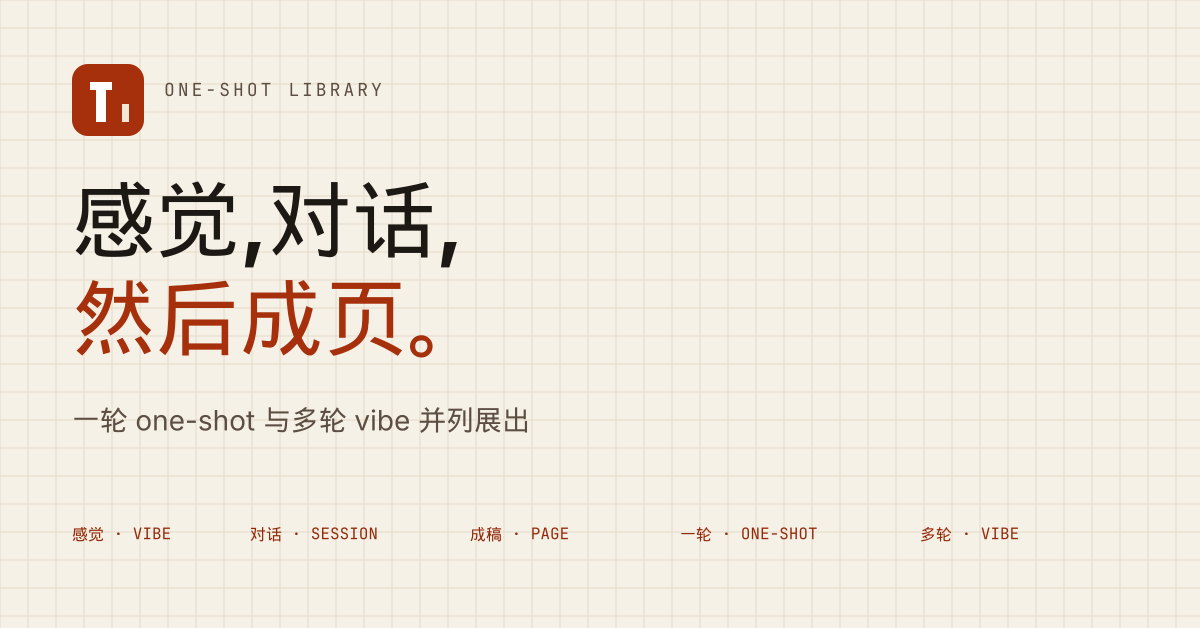
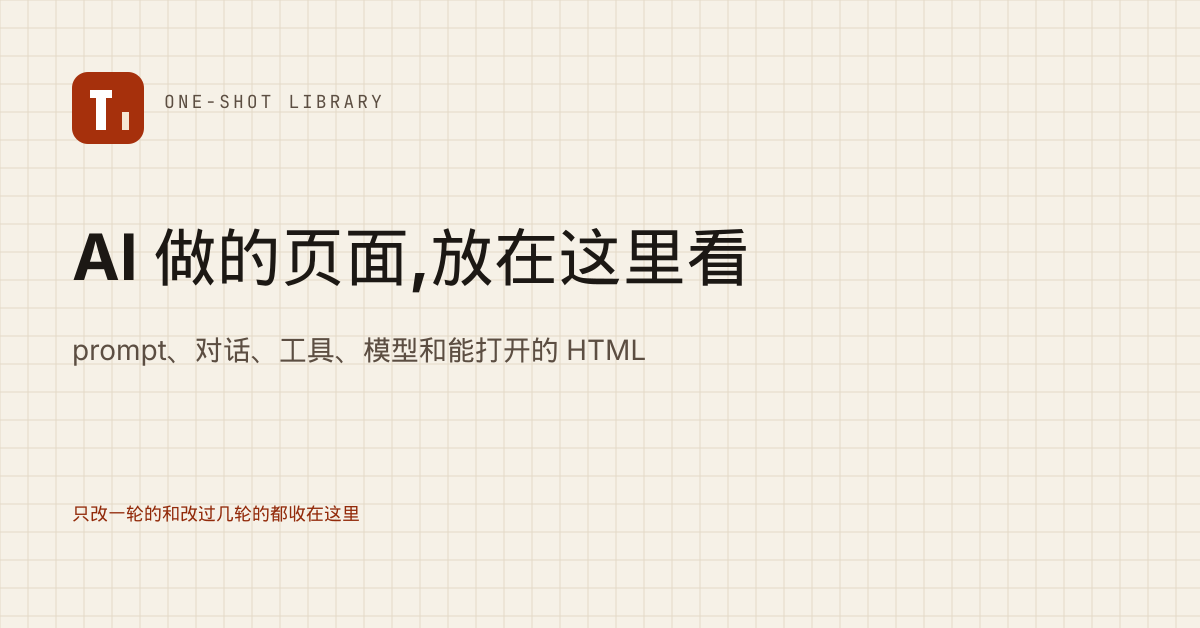
docs: 把站点文案和两件样例对话改得平一点
首页去掉口号和三张等宽说明卡。夜读页边、柜台纸条的对话改成办事时会说的话。原来 7 件的 prompt 没动。

diff --git a/src/pages/rss.xml.ts b/src/pages/rss.xml.ts
@@ -9,7 +9,7 @@ export const GET = async () => {
 
   return rss({
     title: `${SITE?.name} — 新收录`,
-    description: METADATA?.description ?? '一轮 one-shot 与多轮 vibe 的静态展厅',
+    description: METADATA?.description ?? '收录 AI 做的前端小页面',
     site: SITE?.site ?? '',
     items: shots.map((shot) => ({
       title: shot.title,

diff --git a/src/navigation.ts b/src/navigation.ts
@@ -44,6 +44,6 @@ export const footerData = {
     { ariaLabel: 'Github', icon: 'tabler:brand-github', href: 'https://github.com/DobyChao/one-shot-library' },
   ],
   footNote: `
-    One-Shot Library · 静态展厅 · 一轮与多轮都原样展出
+    One-Shot Library · 静态站点
   `,
 };

diff --git a/README.md b/README.md
@@ -1,8 +1,8 @@
 # One-Shot Library
 
-感觉,对话,然后成页。收藏 vibe-coding 里长出来的前端产物(落地页 / 仪表盘 / 小工具)。一轮 **one-shot** 与多轮 **vibe** 会话并列,每件作品都留下**对话、工具、模型和成稿预览**。仓库名仍是 One-Shot Library。
+收录 AI 做的前端小页面(落地页、仪表盘、小工具)。只改一轮的和改过几轮的都收,每件留着当时的对话、工具、模型和能打开的 HTML。仓库名仍是 One-Shot Library。
 
-基于 [AstroWind](https://github.com/onwidget/astrowind)(Astro 7 + Tailwind CSS v4)构建,产物以静态 HTML 分发,详情页内嵌 iframe 预览最终页面,并按时间线展开会话。
+基于 [AstroWind](https://github.com/onwidget/astrowind)(Astro 7 + Tailwind CSS v4)构建。页面以静态 HTML 放出来,详情页用 iframe 看最终结果,对话按时间线排。
 
 ## 常用命令
 
@@ -30,11 +30,11 @@ npm run new          # 脚手架:新建条目骨架并格式化
 title: 作品标题
 excerpt: 一句话介绍
 prompt: |
-  开场那条用户原文(原样粘贴)。一轮作品只填这项也会合成一条会话。
-mode: one-shot # one-shot 或 vibe。省略时,用户开口超过 1 次会当成 vibe
-vibe: 一句感觉 # 可选。卡片优先显示它
-outcome: 这次改到了哪里 # 可选
-turns: 1 # 用户开口次数。省略时按 session 里的 user 条数
+  用户第一条消息(原样粘贴)。只改一轮的只填这项,也会合成一条会话。
+mode: one-shot # one-shot 或 vibe。不填时,用户消息超过 1 次会当成 vibe
+vibe: 当时想要的效果 # 可选。卡片优先显示它
+outcome: 最后改成了什么 # 可选
+turns: 1 # 用户发了几次。不填时按 session 里的 user 条数
 harness: ZCode # 可选。驱动生成的工具(ZCode / Claude Code / Cursor / v0 …)
 model: GLM-5.3-Flash # 可选。使用的模型
 html: my-landing.html # public/artifacts/ 下的最终文件
@@ -43,7 +43,7 @@ tags: [landing-page, saas]
 featured: false
 # session: # 可选。多轮时按顺序写。html / image 挂在某一回合上
 #   - role: user
-#     text: 与 prompt 相同的开场原文
+#     text: 和 prompt 相同的第一条消息
 #     html: my-landing/step-1.html
 #   - role: agent
 #     text: 这一步交出来的东西
@@ -57,10 +57,10 @@ featured: false
 `session`(有序回合:`role` 为 `user` 或 `agent`,`text` 必填,`note` / `html` / `image` 可选)。
 `mode` / `harness` / `model` / `turns` 会成为卡片徽章并参与画廊筛选(也可按方式、工具、模型或 series 分组)。工具和模型请用规范写法(见 `src/data/taxonomy.ts` 或站内关于页),不知道就留空;
 `series` 相同的作品进入 `/shots/series/<name>` 并排对照;prompt 不同会各自保留原文;
-`prompt` 是开场用户原文。省略 `session` 时,站点用它合成一条用户回合,已有的一轮条目不用改文件;
-某一回合的 `html` 若与最终 `html` 相同,时间线只链到页底成稿,不再嵌一次;
+`prompt` 是用户的第一条消息。不填 `session` 时,站点用它合成一条用户回合,已有的一轮条目不用改文件;
+某一回合的 `html` 若与最终 `html` 相同,时间线只链到下面的预览,不再嵌一次;
 方式、轮数、日期、产物形式出现在详情页「生成信息」面板;`npm run audit` 的 Lighthouse 分数有则自动展示;
-markdown 正文可选,显示在详情页「备注」区。为演示时间线而写的样例请在备注里标明。
+markdown 正文可选,显示在详情页「备注」里。为了演示时间线而写的样例,请在备注里标明。
 
 ## 目录速览
 

diff --git a/src/data/shot/night-margin.md b/src/data/shot/night-margin.md
@@ -1,36 +1,36 @@
 ---
 publishDate: 2026-10-08T12:00:00Z
 title: 夜读页边
-excerpt: 从居中海报改成可以顺着读的一页。展陈样例,用来演示多轮时间线。
+excerpt: 样例。第一稿把一句话放在中间,第二稿改成能往下读的一页。
 prompt: |
-  做一页夜读。米白纸,一句短引文居中,像海报。句子用:灯还亮着的时候,只读一页。
+  做一页夜里看的。背景用米白。中间只放一句:灯还亮着的时候,只读一页。先做成海报,字居中。
 mode: vibe
-vibe: 灯下读一页,字要沉,边距要宽。
-outcome: 从居中海报改成左对齐的窄栏,页边留出批注。
+vibe: 夜里看的一页,不要海报。
+outcome: 第二稿把字靠左,右边留了一行小字。
 turns: 2
 html: night-margin/index.html
 image: '~/assets/images/shots/night-margin/index.png'
-imageAlt: 夜读页边成稿,左对齐窄栏与页边批注
+imageAlt: 夜读页边的最终页面,字靠左,右边有一行小字
 tags: [reading, page]
 featured: false
 session:
   - role: user
     text: |
-      做一页夜读。米白纸,一句短引文居中,像海报。句子用:灯还亮着的时候,只读一页。
-    note: 第一稿是居中海报。
+      做一页夜里看的。背景用米白。中间只放一句:灯还亮着的时候,只读一页。先做成海报,字居中。
+    note: 第一稿,字在中间。
     html: night-margin/step-1.html
     image: '~/assets/images/shots/night-margin/step-1.png'
   - role: agent
     text: |
-      先交一版居中的引文海报:大字、宽留白、纸色背景,没有正文。
+      做好了。一句大字居中,纸色底,没有正文。
   - role: user
     text: |
-      不要海报。改成可以顺着读的一页:标题靠左,正文窄栏,页边像笔记。仍用那句做开头。
-    note: 成稿在页底预览,这一步不再嵌一次。
+      太大了,看着像广告。标题靠左,正文窄一点,右边留空写一句批注。开头那句留着。
+    note: 第二稿就是下面的最终页面。
     html: night-margin/index.html
   - role: agent
     text: |
-      改成左对齐窄栏,墨蓝字,页边留出一行批注。
+      改好了。标题和正文靠左,右边有一行小字。
 ---
 
-这是为会话时间线准备的展陈样例。对话由馆方撰写,不是某次模型转录,因此没有填写 harness 和 model。两份页面都是为本条目新写的静态 HTML。
+样例,我们写的,用来把改过几轮的对话放进时间线。没有模型那边的原始记录,所以工具和模型空着。页面是单独加的两个 HTML。

diff --git a/src/data/shot/counter-slip.md b/src/data/shot/counter-slip.md
@@ -1,36 +1,36 @@
 ---
 publishDate: 2026-10-09T12:00:00Z
 title: 柜台纸条
-excerpt: 从一份要勾完的清单,改成可以划掉的三张纸条。展陈样例,用来演示多轮时间线。
+excerpt: 样例。第一稿是一张待办清单,第二稿改成三张能划掉的纸条。
 prompt: |
-  做一张今日柜台清单。浅绿色表格,三条待办,底部一个提交按钮。
+  做一张今天柜台用的清单。浅绿底,三条待办,底下放一个提交按钮。
 mode: vibe
-vibe: 柜台边的纸条要能划掉,不要再像一张表。
-outcome: 清单收成三张赭色纸条,划掉即可,不再提交。
+vibe: 不要表格,改成能划掉的纸条。
+outcome: 三张黄纸条,按钮每按一次划掉一条。
 turns: 2
 html: counter-slip/index.html
 image: '~/assets/images/shots/counter-slip/index.png'
-imageAlt: 柜台纸条成稿,三张赭色便条
+imageAlt: 柜台纸条的最终页面,三张黄色便条
 tags: [note, tool]
 featured: false
 session:
   - role: user
     text: |
-      做一张今日柜台清单。浅绿色表格,三条待办,底部一个提交按钮。
-    note: 第一稿还是一张清单。
+      做一张今天柜台用的清单。浅绿底,三条待办,底下放一个提交按钮。
+    note: 第一稿还是清单。
     html: counter-slip/step-1.html
     image: '~/assets/images/shots/counter-slip/step-1.png'
   - role: agent
     text: |
-      先交一张浅绿色清单:三条待办,勾选框,底部是提交。
+      做好了。三条都有勾选框,按钮写着提交清单。
   - role: user
     text: |
-      不要表格,也不要提交。改成三张可以划掉的纸条,颜色用柜台灯下的赭黄。
-    note: 成稿在页底预览,这一步不再嵌一次。
+      表格拿掉,提交也拿掉。换成三张纸条,颜色黄一点,要能一条条划掉。
+    note: 第二稿就是下面的最终页面。
     html: counter-slip/index.html
   - role: agent
     text: |
-      收成三张略微歪斜的纸条。底部一枚按钮,按一次划掉下一条。
+      改好了。三张纸条稍微歪着。底下的按钮按一下,划掉下一条。
 ---
 
-这是为会话时间线准备的展陈样例。对话由馆方撰写,不是某次模型转录,因此没有填写 harness 和 model。两份页面都是为本条目新写的静态 HTML。
+样例,我们写的,用来把改过几轮的对话放进时间线。没有模型那边的原始记录,所以工具和模型空着。页面是单独加的两个 HTML。

diff --git a/.github/PULL_REQUEST_TEMPLATE.md b/.github/PULL_REQUEST_TEMPLATE.md
@@ -1,11 +1,11 @@
 ## 新作品提交清单
 
 - [ ] 产物放在 `public/artifacts/`(单文件 `<slug>.html` 或独立子目录 `<slug>/index.html`)
-- [ ] 新增条目 `src/data/shot/<slug>.md`(可用 `npm run new -- <slug> "标题"` 生成骨架),frontmatter 含 `title` / `prompt`(开场原文)/ `mode`(`one-shot` 或 `vibe`)/ `turns` / `html` / `tags`;多轮补上有序 `session`
+- [ ] 新增条目 `src/data/shot/<slug>.md`(可用 `npm run new -- <slug> "标题"` 生成骨架),frontmatter 含 `title` / `prompt`(第一条原文)/ `mode`(`one-shot` 或 `vibe`)/ `turns` / `html` / `tags`;改过几轮的补上有序 `session`
 - [ ] 写了 `harness` / `model` 时使用规范写法(见关于页或 `src/data/taxonomy.ts`);不知道可以留空
 - [ ] 已跑 `npx prettier --write src/data/shot/<slug>.md`(CI 有 prettier --check)
 - [ ] 本地 `npm run dev` 自测过画廊列表与详情页
 - [ ] (可选)已跑 `npm run screenshots` 生成封面;没有的话维护者会代补
-- [ ] 产物为本人所有或已获授权收录;prompt 与 session 是真实对话,或已在备注里标明是展陈样例
+- [ ] 产物为本人所有或已获授权收录;prompt 与 session 是真实对话,或已在备注里标明是样例
 
 > 合并后站点自动重新部署。详情页以沙箱 iframe 嵌入产物(禁站内跳转 / 表单 / 弹窗),请确认产物在新窗口打开时也能独立运行。
